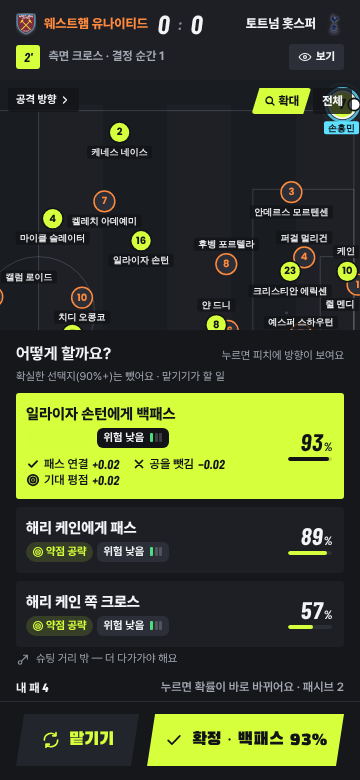
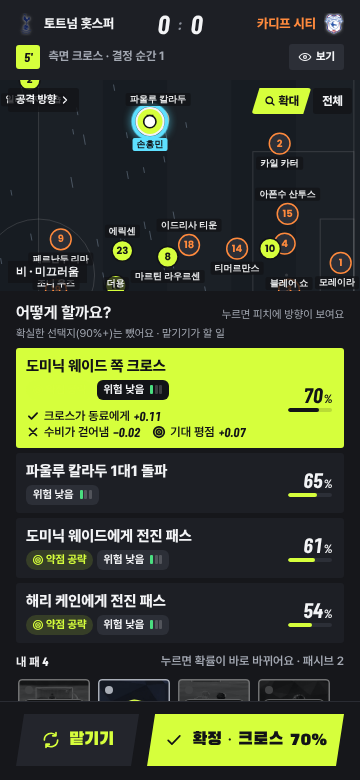
C.81n 후속: 고른 줄 약점 공략 칩 색 · 캡처 스크립트 이름 잘림 검사
Claude-Session: https://claude.ai/code/session_01YVaigGhDQe3xeM1sheing6

diff --git a/src/ui/style.css b/src/ui/style.css
@@ -2906,3 +2906,5 @@ body { overflow-wrap: break-word; }
 .mo-opts .po-choice--row.is-selected .po-choice__name { display: block; -webkit-line-clamp: unset; }
 .mo-opts .po-choice--row .po-choice__main { row-gap: 4px; }
 .mo-opts .po-choice--row.po-choice--play .po-choice__card { display: inline-block; }
+/* C.81n 후속: 고른 줄(라임 바탕)에서 "약점 공략" 칩이 바탕색과 같아 안 보이던 것 — 위험·오프사이드 칩처럼 어두운 칩으로 */
+.po-choice.is-selected .po-exploit { background: var(--on-brand); color: var(--brand); }
